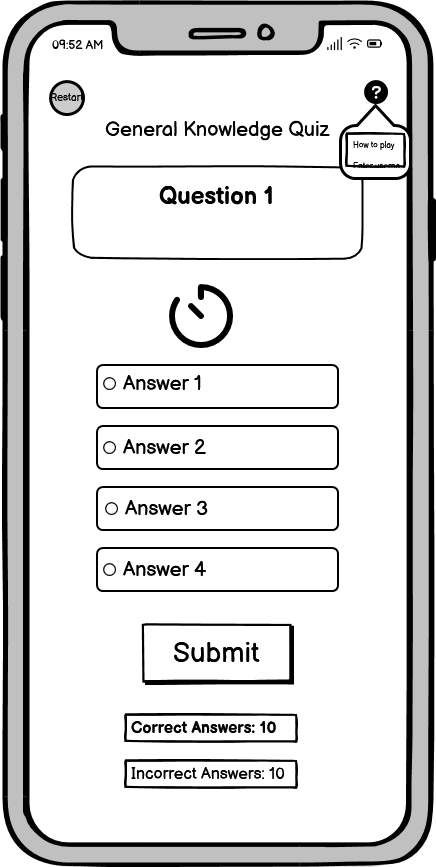
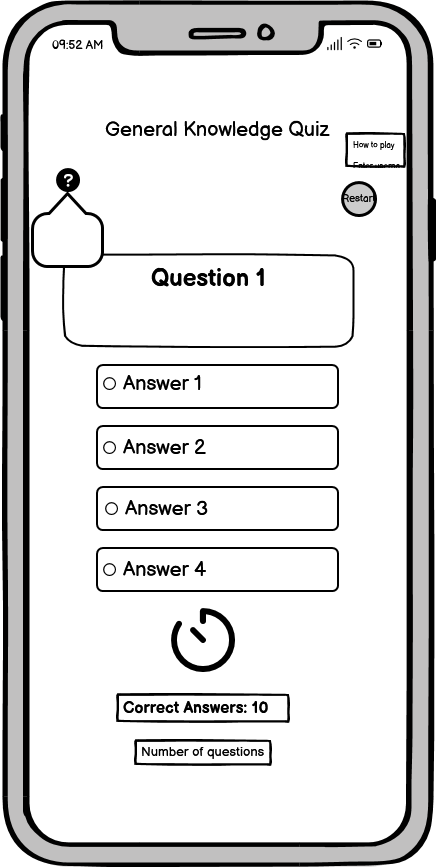
Add Readme file infomration and screenshots

Changed region(s): [[0.0596, 0.0934, 0.9541, 0.4048], [0.2683, 0.6851, 0.6858, 0.9343], [0.0894, 0.0934, 0.2087, 0.1557]]

diff --git a/assets/js/script.js b/assets/js/script.js
@@ -1,12 +1,5 @@
-let submit = document.getElementById('submit-button');
 let question1 = document.getElementById("question");
-let options1 = document.getElementById("options1");
-let options2 = document.getElementById("options2");
-let options3 = document.getElementById("options3");
-let options4 = document.getElementById("options4");
 let current_question_index = 0;
-let time;
-const total_time = 20;
 let quizQuestions = [];
 let shuffledQuestions;
 let total_question = 20;

diff --git a/index.html b/index.html
@@ -14,6 +14,7 @@
         rel="stylesheet">
     <link rel="stylesheet" href="https://use.fontawesome.com/releases/v5.7.2/css/all.css"
         integrity="sha384-fnmOCqbTlWIlj8LyTjo7mOUStjsKC4pOpQbqyi7RrhN7udi9RwhKkMHpvLbHG9Sr" crossorigin="anonymous">
+        <link rel="shortcut icon" href="favicon/favicon.ico">
 
     <link rel="stylesheet" href="assets/css/style.css">
 

diff --git a/assets/css/style.css b/assets/css/style.css
@@ -52,7 +52,6 @@ body {
 }
 
 .cancel {
-    display: relative;
     cursor: pointer;
     margin: 10px;
     float: right;

diff --git a/README.md b/README.md
@@ -8,9 +8,9 @@ This is a General Knowledge Quiz game website which has questions with single co
 
     -   #### First Time Visitor Goals
 
-        1. As a First Time Visitor, I want to see the instruction of the game, with scores for correct and incorrect answers.
+        1. As a First Time Visitor, I want to see the information for the game, with scores for the correct answers.
         2. As a First Time Visitor, I want to be able to easily navigate throughout the site to find the options of the game.
-        3. As a First Time Visitor, I want to enter a username and start get knowledge while having fun with this quiz which has a timer to answer the questions.
+        3. As a First Time Visitor, I want to have more questions and knowledge while having fun with this quiz which has a timer to answer the questions.
 
     -   #### Frequent User Goals
         1. As a Frequent User, I want to check to see if there are any newly added questions and challenge myself.
@@ -18,11 +18,11 @@ This is a General Knowledge Quiz game website which has questions with single co
 
 -   ### Design
     -   #### Colour Scheme
-        -   The two main colours used are teal and white.
+        -   The two main colours used are teal and flax.
     -   #### Typography
-        -   The Montserrat font is the main font used throughout the whole website with Sans Serif as the fallback font in case for any reason the font isn't being imported into the site correctly.
+        -   The Lato font is the main font used throughout the whole website with Sans Serif as the fallback font in case for any reason the font isn't being imported into the site correctly.
     -   #### Imagery
-        -   Imagery is important. A small background image is added to catch the user's attention. 
+        -   A small background image is added to catch the user's attention. 
 
 *   ### Wireframes
 
@@ -32,14 +32,144 @@ This is a General Knowledge Quiz game website which has questions with single co
     -   Mobile Wireframe 
     ![phone](/assets/images/phone.png)
 
+## Technologies Used
+
+### Languages Used
+
+HTML, CSS, JavaScript.
+
+### Frameworks, Libraries & Programs Used
+
+1. [Hover.css:](https://ianlunn.github.io/Hover/)
+    - Hover.css was used on the buttons.
+1. [Google Fonts:](https://fonts.google.com/)
+    - Google fonts were used to import the 'Titillium Web' font into the style.css file which is used on all pages throughout the project.
+1. [Font Awesome:](https://fontawesome.com/)
+    - Font Awesome was used on all pages throughout the website to add icons for aesthetic and UX purposes.
+1. [Git](https://git-scm.com/)
+    - Git was used for version control by utilizing the Gitpod terminal to commit to Git and Push to GitHub.
+1. [GitHub:](https://github.com/)
+    - GitHub is used to store the projects code after being pushed from Git.
+1. [Balsamiq:](https://balsamiq.com/)
+    - Balsamiq was used to create the [wireframes](https://github.com/) during the design process.
+    
 ## Features
 
 -   Responsive on all device sizes
 
 -   Interactive elements
 
-## Technologies Used
+### Existing Features
 
-### Languages Used
+- __The quiz heading and logo__
 
-HTML, CSS, JavaScript.
+  - The heading and the logo are easy to see when user enter the page.
+
+![Logo](/assets/images/Logo.PNG)
+
+- __The Game Area__
+
+  - This section has the question and 4 clickable buttons under the question, so the user can select one which will be checked if the answer was correct or not. If the answer is correct, the score will be increased by 1, if the answer is incorrect the score will be the same and the correct answer will be provided for the user.
+
+![game](/assets/images/game.PNG)
+
+- __The Score Area and Number of the Questions__
+
+  - The scores will be updated each time user selected correct answer, and the number will show how many questions are left.
+
+![score](/assets/images/score.PNG)
+
+- __The Help PopUp and Reset Button__
+   - The user can click on the help icon to see a Pop up with infomration about the game, and click on Reset button to reset to default state.
+![help_reset](/assets/images/help_reset.PNG)
+
+### Features Left to Implement
+
+- To have an option so user can enter a username and scores to be stored when returning.
+
+## Testing
+
+The W3C Markup Validator and W3C CSS Validator Services were used to validate every page of the project to ensure there were no syntax errors in the project.
+- HTML
+    - No errors were returned when passing through the official [W3C validator](https://validator.w3.org/nu/?doc=https%3A%2F%2Fkaltrinabm-quizgame-fppqhtd3fg4.ws-eu77.gitpod.io%2F#textarea)
+- CSS
+    - No errors were found when passing through the official [(Jigsaw) validator](https://jigsaw.w3.org/css-validator/validator#css)
+- JavaScript
+    - No errors were found when passing through the official [Jshint validator](https://jshint.com/)
+      - The following metrics were returned: 
+      - There are 22 functions in this file.
+      - Function with the largest signature take 3 arguments, while the median is 0.
+      - Largest function has 18 statements in it, while the median is 3.5.
+      - The most complex function has a cyclomatic complexity value of 3 while the median is 1.
+
+### Testing User Stories from User Experience (UX) Section
+
+-   #### First Time Visitor Goals
+
+    1. As a First Time Visitor, I want to see the information for the game, with scores for the correct answers.
+
+        Upon entering the site, the user has 4 options to select the correct answer based on the question, has the reset button to reset the time and the questions, and has the help button for the information about the quiz.
+
+    2. As a First Time Visitor, I want to be able to easily navigate throughout the site to find the options of the game.
+
+        It is easy to navigate throughout the site, there are few options clearly labeled and infomration on the game.
+
+    3. As a First Time Visitor, I want to have more questions and knowledge while having fun with this quiz which has a timer to answer the questions.
+        The quiz has 20 questions and a timer with 20 minutes. New question are being added from Trivia Api each time the website is refreshed.
+
+-   #### Returning Visitor Goals
+
+    1. As a Frequent User, I want to check to see if there are any newly added questions and challenge myself.
+        Random questions are added each time user refreshes the page
+
+    2. As a Frequent User, I want to check to see if the website has been updated with new categories.
+        New categories for the quiz may be added in the future.
+
+### Further Testing
+
+-   The Website was tested on Google Chrome and Internet Explorer.
+-   The website was viewed on a variety of devices such as Desktop, Laptop, Andorid phones.
+-   A large amount of testing was done to ensure that all functions are working as intended.
+-   Family members were asked to review and play the game to point out any bugs and/or user experience issues.
+
+### Known Bugs
+
+-   On some mobile devices the help icon and reset buttons are not in line, and the background image was removed due to bugs.
+-   Question number couldn't be pushed to the middle of the page because of the image position. There were bugs with Javascript functions not perfroming as expected, and those have been fixed one by one. 
+
+
+### Unfixed Bugs
+
+There are features that could not be implemented due to the deadline, and some bugs with the CSS file that should be fixed. Also the responsive design for different devices should be improved.
+
+## Deployment
+
+This section should describe the process you went through to deploy the project to a hosting platform (e.g. GitHub) 
+
+- The site was deployed to GitHub pages. The steps to deploy are as follows: 
+  - In the GitHub repository, navigate to the Settings tab 
+  - From the source section drop-down menu, select the Master Branch
+  - Once the master branch has been selected, the page will be automatically refreshed with a detailed ribbon display to indicate the successful deployment. 
+
+The live link can be found here - https://code-institute-org.github.io/love-maths/
+
+### GitHub Pages
+
+The project was deployed to GitHub Pages:
+
+## Credits
+
+### Code
+
+-   Questions are being retrieved from [The Trivia Api](https://the-trivia-api.com/docs/)
+-   The resource of the code for countdown time can be found here: (https://contactmentor.com/build-30-minutes-countdown-timer-js-sound/)
+-   The icons in the footer were taken from [Font Awesome] (https://fontawesome.com/)
+
+### Media
+-   The small background image and logo are free to use and no authour could be found.
+
+### Acknowledgements
+
+-   My Mentor for continuous helpful feedback.
+
+-   Tutor support at Code Institute for their support.
